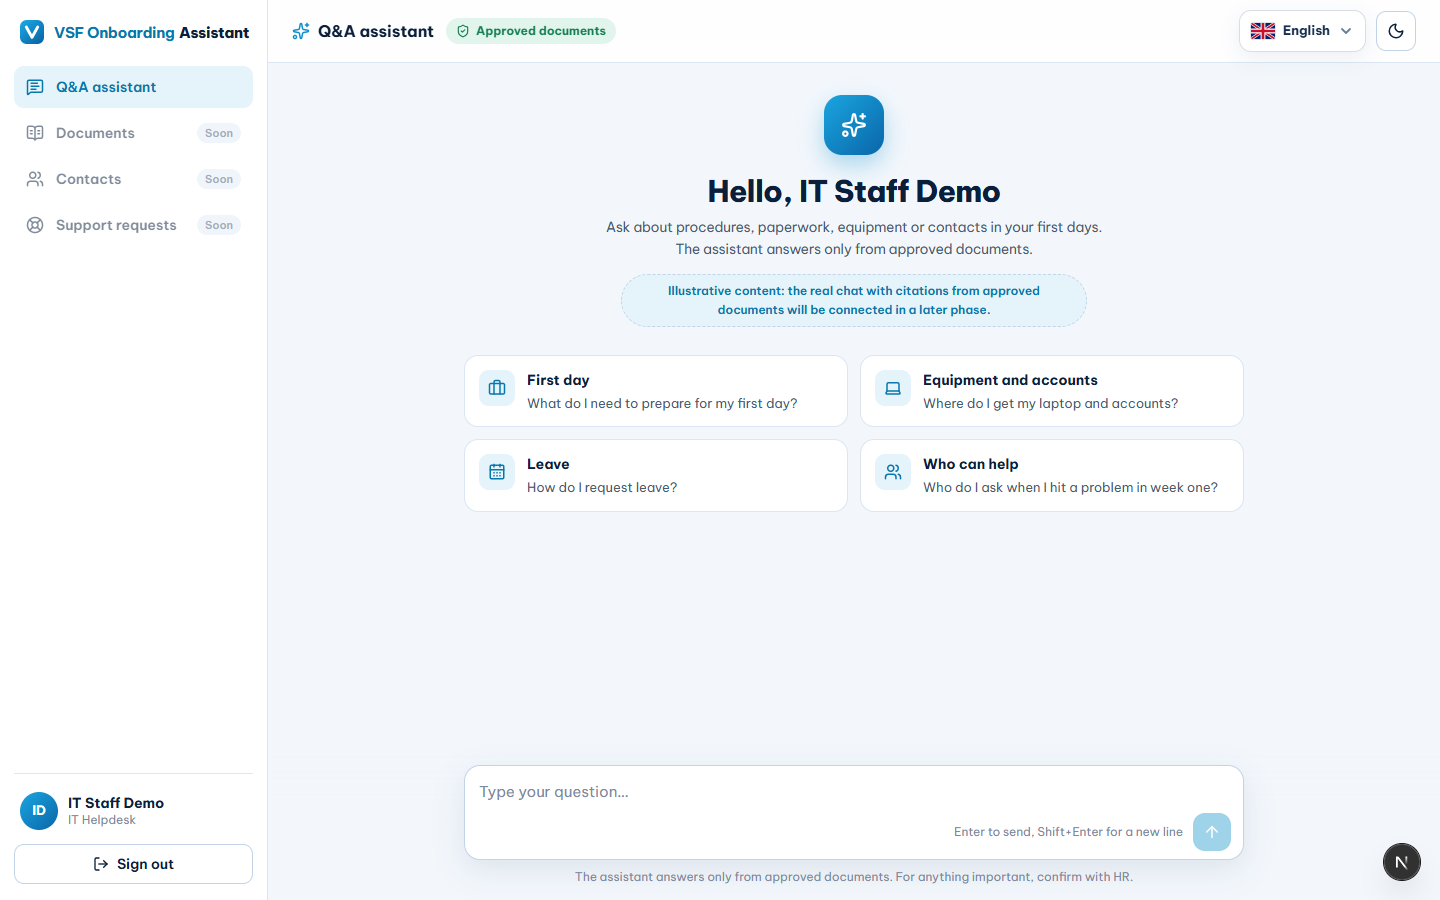
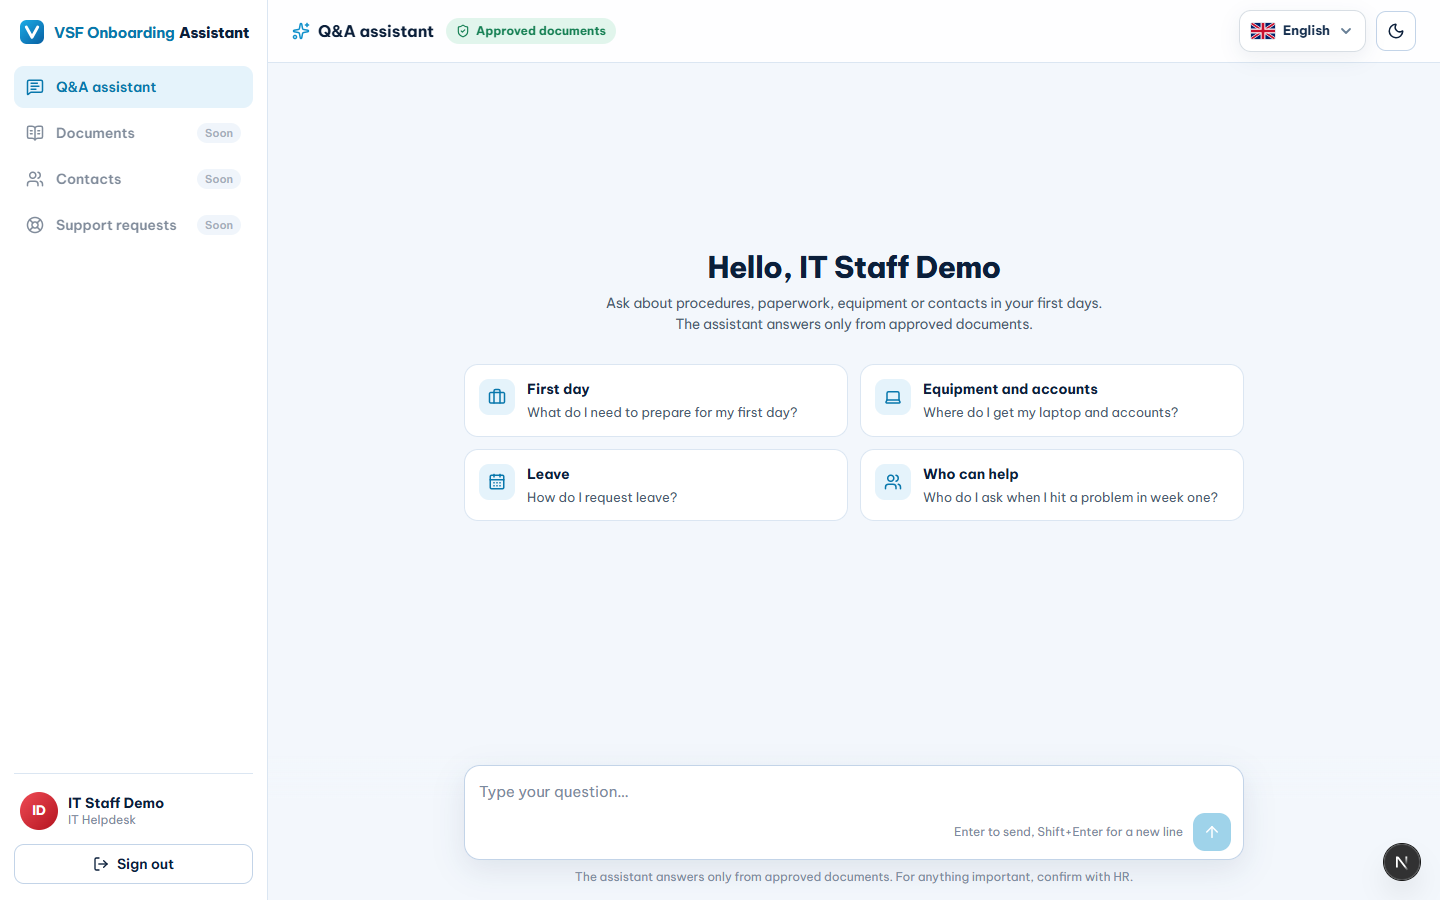
style: center the chat welcome block; fit mobile toolbar

diff --git a/frontend/src/features/chat/ChatShell.module.scss b/frontend/src/features/chat/ChatShell.module.scss
@@ -55,12 +55,12 @@ $column: 780px;
 
 .empty {
   display: flex;
-  flex: 1;
   flex-direction: column;
   align-items: center;
-  // margin auto thay cho justify-content: center để nội dung cao hơn khung vẫn cuộn được từ đầu.
+  // margin auto (không dùng flex: 1) để khối chào + thẻ gợi ý nằm giữa khung, cách đều đầu trang và ô nhập;
+  // nội dung cao hơn khung vẫn cuộn được từ đầu. Padding dưới lớn hơn để khối lệch nhẹ lên trên cho cân mắt.
   margin: auto 0;
-  padding: 12px 0 8px;
+  padding: 0 0 48px;
   text-align: center;
 
   h2 {

diff --git a/frontend/src/features/app-shell/AppShell.tsx b/frontend/src/features/app-shell/AppShell.tsx
@@ -186,7 +186,7 @@ export function AppShell({ children }: { children: ReactNode }) {
             )}
           </div>
           <span className={styles.mobileBrand}>
-            <VsfBrand href={home} size={22} />
+            <VsfBrand href={home} size={19} />
           </span>
           <div className={styles.toolbarRight}>
             <LanguageSwitcher />

diff --git a/frontend/src/features/app-shell/AppShell.module.scss b/frontend/src/features/app-shell/AppShell.module.scss
@@ -270,7 +270,8 @@ a.navActive:hover {
   backdrop-filter: blur(8px);
 
   @include phone-down {
-    padding: 8px 12px;
+    gap: 6px;
+    padding: 8px 10px;
   }
 }
 
